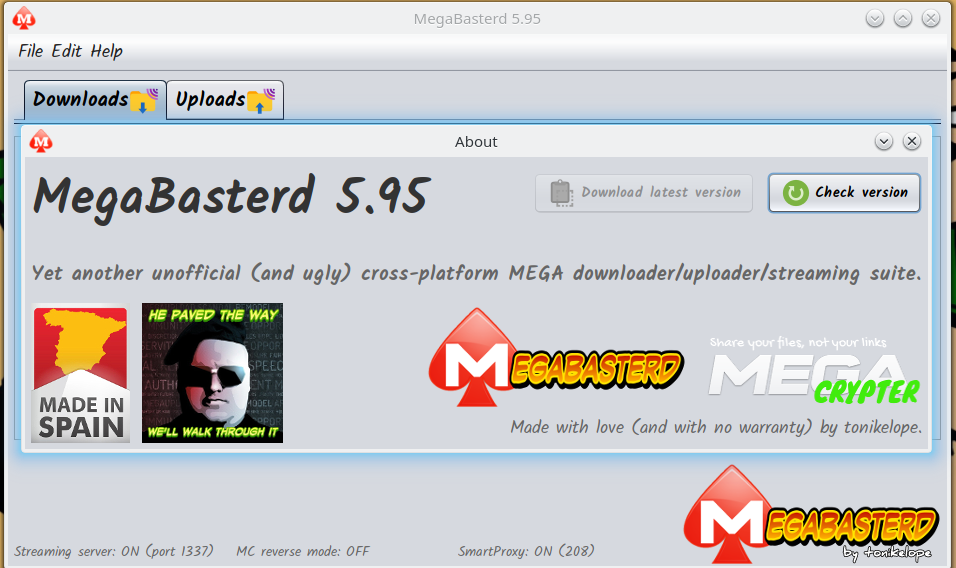
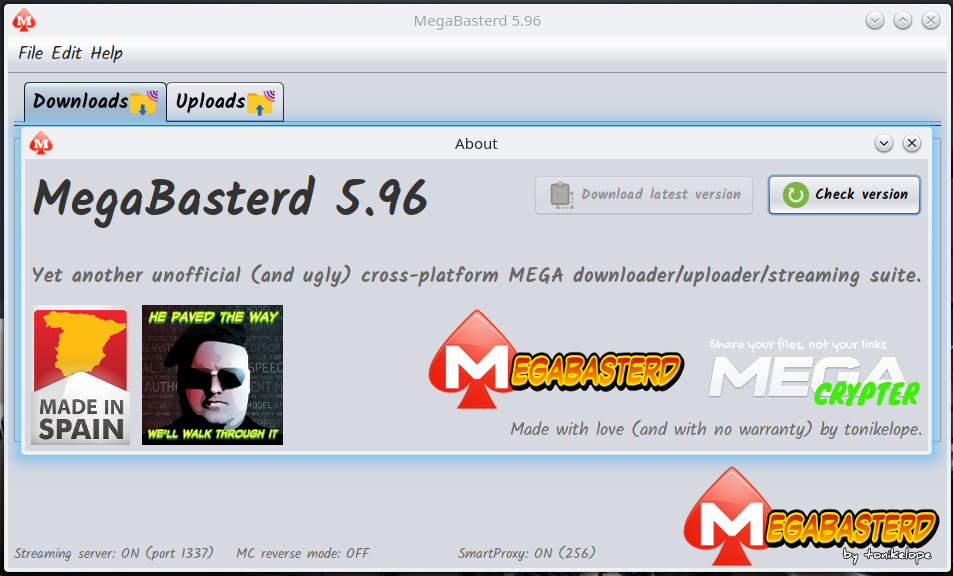
5.96
-Smart Proxy by download
-Default slots for new download fix

Changed region(s): [[0.0, 0.0, 1.0, 1.0], [0.4869, 0.5387, 0.5173, 0.5687]]

diff --git a/src/main/java/com/tonikelope/megabasterd/Download.java b/src/main/java/com/tonikelope/megabasterd/Download.java
@@ -64,7 +64,7 @@ public final class Download implements Transference, Runnable, SecureSingleThrea
     private String _file_pass;
     private String _file_noexpire;
     private final boolean _use_slots;
-    private final int _slots;
+    private int _slots;
     private final boolean _restart;
     private final ArrayList<ChunkDownloader> _chunkworkers;
     private final ExecutorService _thread_pool;
@@ -90,8 +90,9 @@ public final class Download implements Transference, Runnable, SecureSingleThrea
     private volatile boolean _canceled;
     private volatile boolean _error509;
     private volatile boolean _turbo_proxy_mode;
+    private SmartMegaProxyManager _proxy_manager;
 
-    public Download(MainPanel main_panel, MegaAPI ma, String url, String download_path, String file_name, String file_key, Long file_size, String file_pass, String file_noexpire, boolean use_slots, int slots, boolean restart) {
+    public Download(MainPanel main_panel, MegaAPI ma, String url, String download_path, String file_name, String file_key, Long file_size, String file_pass, String file_noexpire, boolean use_slots, boolean restart) {
 
         _paused_workers = 0;
         _ma = ma;
@@ -117,7 +118,6 @@ public final class Download implements Transference, Runnable, SecureSingleThrea
         _file_pass = file_pass;
         _file_noexpire = file_noexpire;
         _use_slots = use_slots;
-        _slots = slots;
         _error509 = false;
         _turbo_proxy_mode = false;
         _restart = restart;
@@ -160,7 +160,6 @@ public final class Download implements Transference, Runnable, SecureSingleThrea
         _file_pass = download.getFile_pass();
         _file_noexpire = download.getFile_noexpire();
         _use_slots = download.getMain_panel().isUse_slots_down();
-        _slots = download.getMain_panel().getDefault_slots_down();
         _restart = true;
         _secure_notify_lock = new Object();
         _workers_lock = new Object();
@@ -174,6 +173,10 @@ public final class Download implements Transference, Runnable, SecureSingleThrea
         _view = new DownloadView(this);
         _progress_meter = new ProgressMeter(this);
 
+    }
+
+    public SmartMegaProxyManager getProxy_manager() {
+        return _proxy_manager;
     }
 
     public long getLast_chunk_id_dispatched() {
@@ -565,6 +568,8 @@ public final class Download implements Transference, Runnable, SecureSingleThrea
 
                         getMain_panel().getGlobal_dl_speed().attachTransference(this);
 
+                        _proxy_manager = new SmartMegaProxyManager(null);
+
                         synchronized (_workers_lock) {
 
                             if (_use_slots) {
@@ -572,6 +577,8 @@ public final class Download implements Transference, Runnable, SecureSingleThrea
                                 _chunkmanager = new ChunkManager(this);
 
                                 _thread_pool.execute(_chunkmanager);
+
+                                _slots = getMain_panel().getDefault_slots_down();
 
                                 for (int t = 1; t <= _slots; t++) {
                                     ChunkDownloader c = new ChunkDownloader(t, this);

diff --git a/src/main/java/com/tonikelope/megabasterd/MainPanelView.java b/src/main/java/com/tonikelope/megabasterd/MainPanelView.java
@@ -212,7 +212,7 @@ public final class MainPanelView extends javax.swing.JFrame {
                     if (_smart_proxy_threads.isEmpty()) {
                         getGlobal_speed_down_label().setForeground(new Color(0, 128, 255));
                     } else {
-                        getGlobal_speed_down_label().setForeground(Color.BLACK);
+                        getGlobal_speed_down_label().setForeground(new Color(255, 102, 0));
                     }
                 }
 
@@ -770,7 +770,7 @@ public final class MainPanelView extends javax.swing.JFrame {
 
                                                 if (!getMain_panel().getDownload_manager().getTransference_preprocess_global_queue().isEmpty()) {
 
-                                                    download = new Download(getMain_panel(), ma, (String) folder_link.get("url"), dl_path, (String) folder_link.get("filename"), (String) folder_link.get("filekey"), (long) folder_link.get("filesize"), null, null, getMain_panel().isUse_slots_down(), getMain_panel().getDefault_slots_down(), true);
+                                                    download = new Download(getMain_panel(), ma, (String) folder_link.get("url"), dl_path, (String) folder_link.get("filename"), (String) folder_link.get("filekey"), (long) folder_link.get("filesize"), null, null, getMain_panel().isUse_slots_down(), true);
 
                                                     getMain_panel().getDownload_manager().getTransference_provision_queue().add(download);
 
@@ -796,7 +796,7 @@ public final class MainPanelView extends javax.swing.JFrame {
 
                                     if (!getMain_panel().getDownload_manager().getTransference_preprocess_global_queue().isEmpty()) {
 
-                                        download = new Download(getMain_panel(), ma, url, dl_path, null, null, null, null, null, getMain_panel().isUse_slots_down(), getMain_panel().getDefault_slots_down(), false);
+                                        download = new Download(getMain_panel(), ma, url, dl_path, null, null, null, null, null, getMain_panel().isUse_slots_down(), false);
 
                                         getMain_panel().getDownload_manager().getTransference_provision_queue().add(download);
 
@@ -1119,7 +1119,7 @@ public final class MainPanelView extends javax.swing.JFrame {
 
                                 if (!getMain_panel().getUpload_manager().getTransference_preprocess_global_queue().isEmpty()) {
 
-                                    Upload upload = new Upload(getMain_panel(), ma, f.getAbsolutePath(), file_parent, null, null, parent_node, share_key, folder_link, getMain_panel().getDefault_slots_up());
+                                    Upload upload = new Upload(getMain_panel(), ma, f.getAbsolutePath(), file_parent, null, null, parent_node, share_key, folder_link);
 
                                     getMain_panel().getUpload_manager().getTransference_provision_queue().add(upload);
 

diff --git a/src/main/java/com/tonikelope/megabasterd/MainPanel.java b/src/main/java/com/tonikelope/megabasterd/MainPanel.java
@@ -48,7 +48,7 @@ import javax.swing.UIManager;
  */
 public final class MainPanel {
 
-    public static final String VERSION = "5.95";
+    public static final String VERSION = "5.96";
     public static final int THROTTLE_SLICE_SIZE = 16 * 1024;
     public static final int DEFAULT_BYTE_BUFFER_SIZE = 16 * 1024;
     public static final int STREAMER_PORT = 1337;
@@ -1021,7 +1021,7 @@ public final class MainPanel {
 
                             if (!tthis.isUse_mega_account_down() || (_mega_accounts.get(email) != null && (ma = checkMegaAccountLoginAndShowMasterPassDialog(tthis, getView(), email)) != null)) {
 
-                                Download download = new Download(tthis, ma, (String) o.get("url"), (String) o.get("path"), (String) o.get("filename"), (String) o.get("filekey"), (Long) o.get("filesize"), (String) o.get("filepass"), (String) o.get("filenoexpire"), _use_slots_down, _default_slots_down, false);
+                                Download download = new Download(tthis, ma, (String) o.get("url"), (String) o.get("path"), (String) o.get("filename"), (String) o.get("filekey"), (Long) o.get("filesize"), (String) o.get("filepass"), (String) o.get("filenoexpire"), _use_slots_down, false);
 
                                 getDownload_manager().getTransference_provision_queue().add(download);
 
@@ -1200,7 +1200,7 @@ public final class MainPanel {
 
                                 if ((ma = checkMegaAccountLoginAndShowMasterPassDialog(tthis, getView(), email)) != null) {
 
-                                    Upload upload = new Upload(tthis, ma, (String) o.get("filename"), (String) o.get("parent_node"), (String) o.get("ul_key") != null ? bin2i32a(BASE642Bin((String) o.get("ul_key"))) : null, (String) o.get("url"), (String) o.get("root_node"), BASE642Bin((String) o.get("share_key")), (String) o.get("folder_link"), _default_slots_up);
+                                    Upload upload = new Upload(tthis, ma, (String) o.get("filename"), (String) o.get("parent_node"), (String) o.get("ul_key") != null ? bin2i32a(BASE642Bin((String) o.get("ul_key"))) : null, (String) o.get("url"), (String) o.get("root_node"), BASE642Bin((String) o.get("share_key")), (String) o.get("folder_link"));
 
                                     getUpload_manager().getTransference_provision_queue().add(upload);
 

diff --git a/src/main/java/com/tonikelope/megabasterd/Upload.java b/src/main/java/com/tonikelope/megabasterd/Upload.java
@@ -32,7 +32,7 @@ public final class Upload implements Transference, Runnable, SecureSingleThreadN
     private String _status_error_message;
     private String _dir_name;
     private volatile boolean _exit;
-    private final int _slots;
+    private int _slots;
     private final Object _secure_notify_lock;
     private final Object _workers_lock;
     private final Object _chunkid_lock;
@@ -71,7 +71,7 @@ public final class Upload implements Transference, Runnable, SecureSingleThreadN
     private volatile boolean _closed;
     private volatile boolean _canceled;
 
-    public Upload(MainPanel main_panel, MegaAPI ma, String filename, String parent_node, int[] ul_key, String ul_url, String root_node, byte[] share_key, String folder_link, int slots) {
+    public Upload(MainPanel main_panel, MegaAPI ma, String filename, String parent_node, int[] ul_key, String ul_url, String root_node, byte[] share_key, String folder_link) {
 
         _notified = false;
         _provision_ok = true;
@@ -87,7 +87,6 @@ public final class Upload implements Transference, Runnable, SecureSingleThreadN
         _root_node = root_node;
         _share_key = share_key;
         _folder_link = folder_link;
-        _slots = slots;
         _restart = false;
         _progress = 0L;
         _last_chunk_id_dispatched = 0L;
@@ -122,7 +121,6 @@ public final class Upload implements Transference, Runnable, SecureSingleThreadN
         _root_node = upload.getRoot_node();
         _share_key = upload.getShare_key();
         _folder_link = upload.getFolder_link();
-        _slots = upload.getMain_panel().getDefault_slots_up();
         _progress = 0L;
         _last_chunk_id_dispatched = 0L;
         _completion_handle = null;
@@ -757,6 +755,8 @@ public final class Upload implements Transference, Runnable, SecureSingleThreadN
                 _thread_pool.execute(_mac_generator);
 
                 synchronized (_workers_lock) {
+
+                    _slots = getMain_panel().getDefault_slots_up();
 
                     for (int t = 1; t <= _slots; t++) {
                         ChunkUploader c = new ChunkUploader(t, this);

diff --git a/src/main/java/com/tonikelope/megabasterd/ChunkDownloader.java b/src/main/java/com/tonikelope/megabasterd/ChunkDownloader.java
@@ -27,7 +27,6 @@ public class ChunkDownloader implements Runnable, SecureSingleThreadNotifiable {
     private final Object _secure_notify_lock;
     private volatile boolean _error_wait;
     private boolean _notified;
-    private SmartMegaProxyManager _proxy_manager;
 
     public ChunkDownloader(int id, Download download) {
         _notified = false;
@@ -35,7 +34,6 @@ public class ChunkDownloader implements Runnable, SecureSingleThreadNotifiable {
         _secure_notify_lock = new Object();
         _id = id;
         _download = download;
-        _proxy_manager = null;
         _error_wait = false;
 
     }
@@ -109,6 +107,8 @@ public class ChunkDownloader implements Runnable, SecureSingleThreadNotifiable {
 
             long init_chunk_time = -1, finish_chunk_time = -1, pause_init_time, paused = 0L;
 
+            SmartMegaProxyManager proxy_manager = _download.getProxy_manager();
+
             while (!_exit && !_download.isStopped()) {
 
                 if (worker_url == null || http_error == 403) {
@@ -128,21 +128,15 @@ public class ChunkDownloader implements Runnable, SecureSingleThreadNotifiable {
 
                 if ((chunk_error || slow_proxy) && MainPanel.isUse_smart_proxy() && !MainPanel.isUse_proxy()) {
 
-                    if (_proxy_manager == null) {
-
-                        _proxy_manager = new SmartMegaProxyManager(null);
-
-                    }
-
                     if (current_smart_proxy != null) {
 
-                        _proxy_manager.blockProxy(current_smart_proxy);
+                        proxy_manager.blockProxy(current_smart_proxy);
 
                         Logger.getLogger(MiscTools.class.getName()).log(Level.WARNING, "{0}: excluding proxy -> {1}", new Object[]{Thread.currentThread().getName(), current_smart_proxy});
 
                     }
 
-                    current_smart_proxy = _proxy_manager.getFastestProxy();
+                    current_smart_proxy = proxy_manager.getFastestProxy();
 
                     if (current_smart_proxy != null) {
 

diff --git a/src/main/java/com/tonikelope/megabasterd/ChunkManager.java b/src/main/java/com/tonikelope/megabasterd/ChunkManager.java
@@ -150,6 +150,9 @@ public final class ChunkManager implements Runnable, SecureSingleThreadNotifiabl
                             _download.getView().getPause_button().setVisible(false);
                             _download.getMain_panel().getGlobal_dl_speed().detachTransference(_download);
                             _download.getView().getSpeed_label().setVisible(false);
+                            _download.getView().getSlots_label().setVisible(false);
+                            _download.getView().getSlot_status_label().setVisible(false);
+                            _download.getView().getSlots_spinner().setVisible(false);
                             chunkworkers_empty = true;
                         }
 
